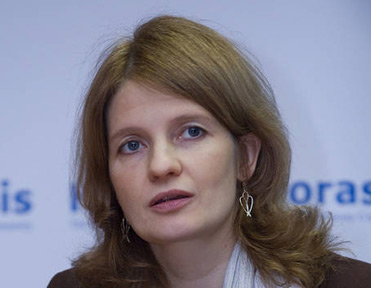
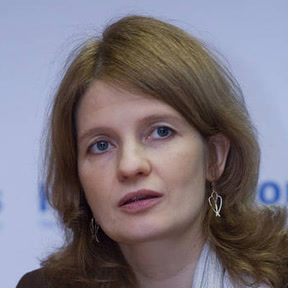
87, 97 - dodatki

diff --git a/java/src/main/java/org/kd/anniversaries27/Year1997.java b/java/src/main/java/org/kd/anniversaries27/Year1997.java
@@ -6,6 +6,9 @@ import com.badlogic.gdx.graphics.glutils.ShapeRenderer;
 import com.badlogic.gdx.math.Rectangle;
 import org.kd.common.VideoClip;
 
+import java.util.ArrayList;
+import java.util.List;
+
 public final class Year1997 extends Year {
 
     private final Rectangle canvas = new Rectangle(104, 112, 797, 543);
@@ -17,6 +20,7 @@ public final class Year1997 extends Year {
     private final long yahooFrame = seconds(4);           // right after the 3.97 s Windows 98 video
     private final long postgresqlFrame = seconds(10);
     private final long kasperskyFrame = seconds(17);
+    private final List<Long> founderFrames = List.of(seconds(22), seconds(24), seconds(26));
     private final long tibiaFrame = seconds(30);
     private final long tibiaPlayFrame = seconds(30.65);   // 3.7 s video centred in its 5 s slot
     private final long gtaFrame = seconds(35);
@@ -25,8 +29,15 @@ public final class Year1997 extends Year {
     private final long fadeInFrames = 15;
     private final long gradualFadeInFrames = seconds(2);
 
+    // Kaspersky founders in a row under the logo, left to right
+    private final List<String> founderPictures = List.of("YevhenKaspersky.jpg", "NatalyaKaspersky.jpg", "De-Monderik.jpg");
+    private final float founderSize = 250;
+    private final float founderGap = 15;
+    private final float foundersBottom = 170;
+
     private final VideoClip windows98, tibia, gta;
     private final FittedPicture yahooMail, postgresql, kaspersky;
+    private final List<FittedPicture> founders = new ArrayList<>();
 
     protected Year1997(long startingFrame) {
         super("anniversaries27/1997.mp3", startingFrame);
@@ -40,6 +51,13 @@ public final class Year1997 extends Year {
         yahooMail = new FittedPicture(picturesPath + "yahoo-mail.png", canvas, Color.WHITE);
         postgresql = new FittedPicture(picturesPath + "postgresql.png", canvas, Color.WHITE);
         kaspersky = new FittedPicture(picturesPath + "kaspersky.png", kasperskyArea, Color.WHITE);
+
+        float rowWidth = founderPictures.size() * founderSize + (founderPictures.size() - 1) * founderGap;
+        float rowLeft = canvas.x + (canvas.width - rowWidth) / 2;
+        for (int i = 0; i < founderPictures.size(); i++) {
+            var area = new Rectangle(rowLeft + i * (founderSize + founderGap), foundersBottom, founderSize, founderSize);
+            founders.add(new FittedPicture(picturesPath + founderPictures.get(i), area, Color.WHITE));
+        }
     }
 
     @Override
@@ -55,6 +73,7 @@ public final class Year1997 extends Year {
             drawOnWhite(batch, postgresql, fadeIn(relFrame, postgresqlFrame, gradualFadeInFrames));
         } else if (relFrame < tibiaFrame) {
             drawOnWhite(batch, kaspersky, fadeIn(relFrame, kasperskyFrame, fadeInFrames));
+            drawFounders(batch, relFrame);
         } else if (relFrame < gtaFrame) {
             drawVideo(batch, tibia, relFrame, tibiaPlayFrame);
         } else {
@@ -72,6 +91,17 @@ public final class Year1997 extends Year {
             video.drawFirstFrame(batch);
         else
             video.draw(batch);
+        batch.end();
+    }
+
+    /** Each founder joins the row at its own time. */
+    private void drawFounders(SpriteBatch batch, long relFrame) {
+        batch.begin();
+        for (int i = 0; i < founders.size(); i++) {
+            long appearFrame = founderFrames.get(i);
+            if (relFrame >= appearFrame)
+                founders.get(i).drawWhole(batch, fadeIn(relFrame, appearFrame, fadeInFrames));
+        }
         batch.end();
     }
 

diff --git a/java/src/main/java/org/kd/anniversaries27/Year1987.java b/java/src/main/java/org/kd/anniversaries27/Year1987.java
@@ -7,6 +7,7 @@ import com.badlogic.gdx.graphics.Texture;
 import com.badlogic.gdx.graphics.g2d.SpriteBatch;
 import com.badlogic.gdx.graphics.glutils.HdpiUtils;
 import com.badlogic.gdx.math.Rectangle;
+import org.kd.common.VideoClip;
 
 public final class Year1987 extends Year {
 
@@ -24,19 +25,33 @@ public final class Year1987 extends Year {
     private final float chineseNameStartWidth = 30;
     private final float chineseNameEndWidth = 3000;
 
+    // Perl source typed letter by letter, then Dizzy for the last 4 s of the year
+    private final long yearFrames = 2320;
+    private final long perlFrame = seconds(24);
+    private final long perlTypingFrames = seconds(8.5);
+    private final long dizzyFrame = yearFrames - seconds(4);
+    private final float codeMargin = 20;
+    private final Color terminalGreen = new Color(0.35f, 1f, 0.35f, 1);
+
     private final TsmcLogoAnimation tsmc;
     private final FittedPicture morrisChang;
     private final Texture chineseName;
+    private final TypedCode perlCode;
+    private final VideoClip dizzy;
 
     Year1987(long startingFrame) {
         super("anniversaries27/1987.mp3", startingFrame);
-        this.endFrame = startingFrame + 2320; // 1987.mp3 lasts 38.664 s at 60 fps
+        this.endFrame = startingFrame + yearFrames; // 1987.mp3 lasts 38.664 s at 60 fps
 
         tsmc = new TsmcLogoAnimation(canvas);
         morrisChang = new FittedPicture("anniversaries27/pics/1987/chang.jpg", canvas, Color.BLACK, true);
         // white image rendered once from Microsoft JhengHei Bold
         chineseName = new Texture("anniversaries27/pics/1987/glyphs/zhang-zhongmou.png");
         chineseName.setFilter(Texture.TextureFilter.Linear, Texture.TextureFilter.Linear);
+        // larry.pl is runnable and prints the sentence about Perl and Larry Wall
+        perlCode = new TypedCode("anniversaries27/code/larry.pl", 15, 22, terminalGreen, perlTypingFrames);
+        // 4 s, 640x360 video fitted to the canvas width: 797x448, centred vertically
+        dizzy = new VideoClip("anniversaries27/video/Dizzy1.mp4", 30, 104, 160, 797, 448, false);
     }
 
     @Override
@@ -50,6 +65,10 @@ public final class Year1987 extends Year {
             drawMorrisChang(batch, relFrame);
         if (chineseNameFrame <= relFrame && relFrame < chineseNameEndFrame)
             drawChineseName(batch, relFrame);
+        if (perlFrame <= relFrame && relFrame < dizzyFrame)
+            perlCode.draw(batch, canvas.x + codeMargin, canvas.y + canvas.height - codeMargin, relFrame - perlFrame);
+        if (relFrame >= dizzyFrame)
+            drawDizzy(batch);
 
         log(relFrame);
 
@@ -61,6 +80,12 @@ public final class Year1987 extends Year {
         float alpha = Math.min(1f, (relFrame - morrisChangFrame) / (float) crossFadeFrames);
         batch.begin();
         morrisChang.drawWhole(batch, alpha);
+        batch.end();
+    }
+
+    private void drawDizzy(SpriteBatch batch) {
+        batch.begin();
+        dizzy.draw(batch);
         batch.end();
     }
 

diff --git a/java/src/main/java/org/kd/anniversaries27/TypedCode.java b/java/src/main/java/org/kd/anniversaries27/TypedCode.java
@@ -1,0 +1,57 @@
+package org.kd.anniversaries27;
+
+import com.badlogic.gdx.Gdx;
+import com.badlogic.gdx.graphics.Color;
+import com.badlogic.gdx.graphics.g2d.BitmapFont;
+import com.badlogic.gdx.graphics.g2d.SpriteBatch;
+import org.kd.common.C64Helper;
+
+import java.util.List;
+
+/**
+ * Source code read from a resource file and typed letter by letter in a monospaced font, with a cursor
+ * that blinks once the typing is done. Times are frames since the typing started.
+ */
+final class TypedCode {
+
+    private final List<String> lines;
+    private final int totalCharacters;
+    private final BitmapFont font;
+    private final Color color;
+    private final float lineSpacing;
+    private final long typingFrames;
+    private final long cursorBlinkFrames = 30;
+
+    TypedCode(String internalPath, int fontSize, float lineSpacing, Color color, long typingFrames) {
+        this.lines = Gdx.files.internal(internalPath).readString("UTF-8").replace("\r", "").lines().toList();
+        this.totalCharacters = lines.stream().mapToInt(line -> line.length() + 1).sum(); // + 1 for each line break
+        this.font = C64Helper.createFont(fontSize, "C64_Pro_Mono-STYLE.ttf");
+        this.lineSpacing = lineSpacing;
+        this.color = color;
+        this.typingFrames = typingFrames;
+    }
+
+    /** x, top: where the first line starts. */
+    void draw(SpriteBatch batch, float x, float top, long typingFrame) {
+        long charactersLeft = Math.min(totalCharacters, totalCharacters * Math.max(0, typingFrame) / typingFrames);
+        boolean typingDone = charactersLeft >= totalCharacters;
+        boolean cursorShown = !typingDone || (typingFrame / cursorBlinkFrames) % 2 == 0;
+
+        font.setColor(color);
+        batch.begin();
+        for (int i = 0; i < lines.size(); i++) {
+            String line = lines.get(i);
+            int visible = (int) Math.min(line.length(), charactersLeft);
+            charactersLeft -= Math.min(line.length() + 1, charactersLeft);
+            boolean cursorOnThisLine = charactersLeft == 0; // the first line typing stopped in
+
+            float y = top - i * lineSpacing;
+            font.draw(batch, line.substring(0, visible), x, y);
+            if (cursorShown && cursorOnThisLine) {
+                font.draw(batch, "_", x + visible * font.getSpaceXadvance(), y);
+                cursorShown = false;
+            }
+        }
+        batch.end();
+    }
+}
